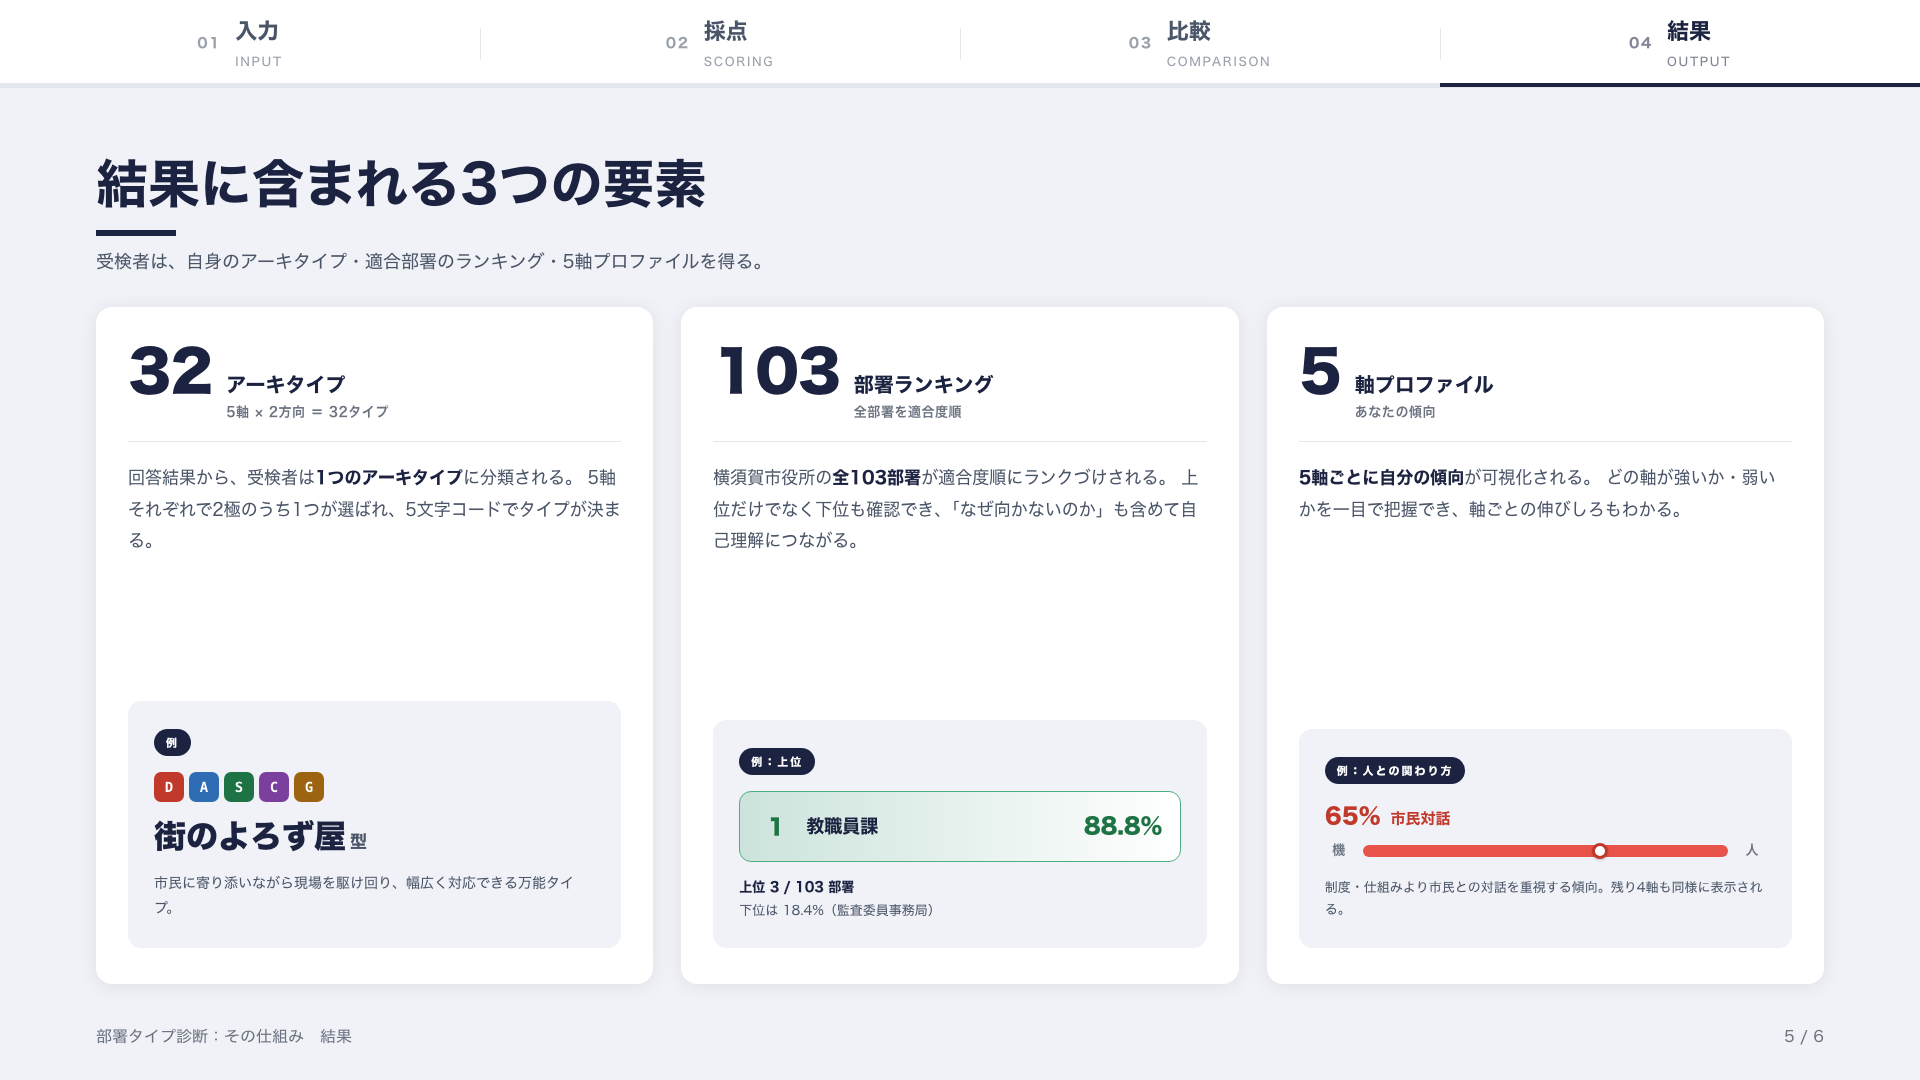
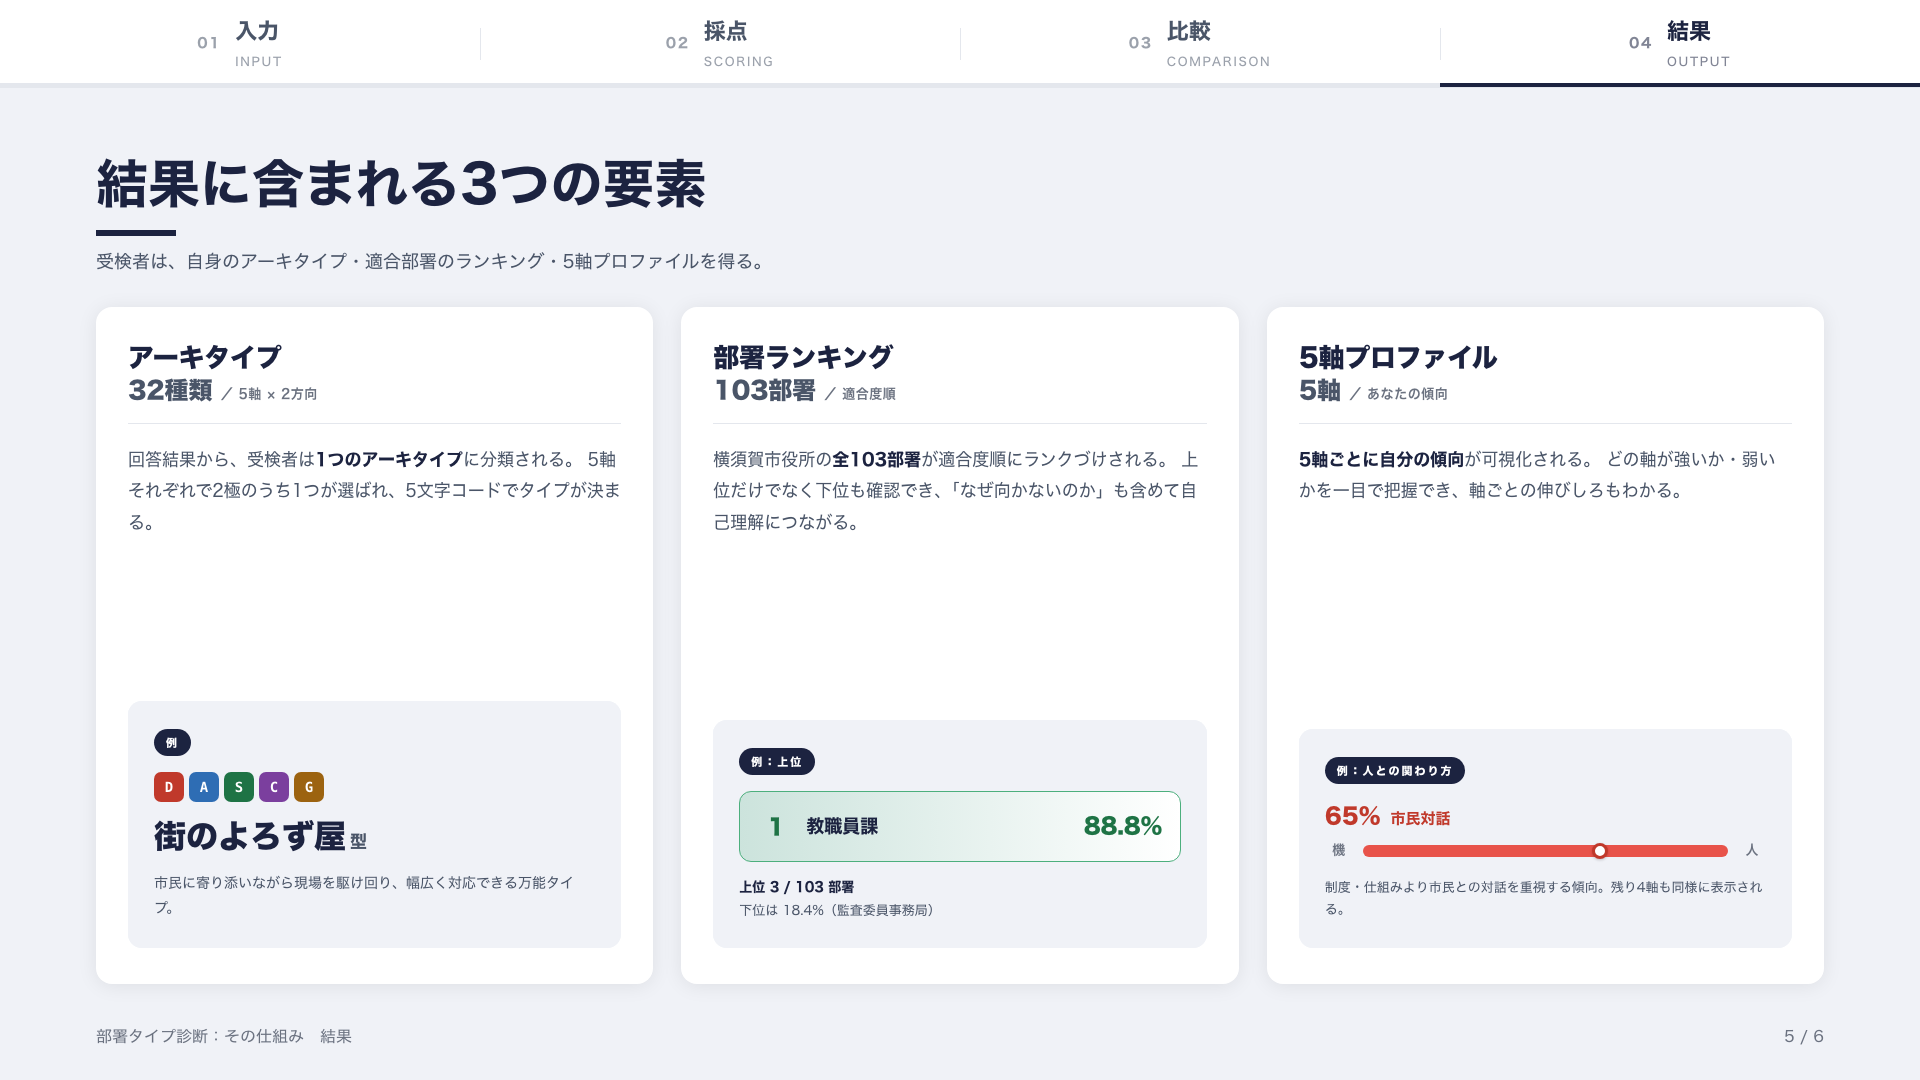
fix(presentation): slide 5 — flip card-head hierarchy, align across cards
The previous head put the count (32 / 103 / 5) as the dominant element
beside the label. That demoted the actual concept (アーキタイプ /
部署ランキング / 5軸プロファイル) to a sub-line, and the differing
numeric widths broke vertical alignment between cards.

Restructure as label-primary stacked layout: the concept name reads
first as a large indigo heading, with the count and qualifier on a
secondary line below. Headings now baseline-align across all three
cards regardless of the count's digit width.

Changed region(s): [[0.375, 0.3056, 0.625, 0.5194], [0.0625, 0.3056, 0.3438, 0.4889], [0.6562, 0.3056, 0.9375, 0.4889]]

diff --git a/presentations/how-it-works/index.html b/presentations/how-it-works/index.html
@@ -795,21 +795,26 @@
     gap: 20px;
   }
   .s5-card-head {
-    display: flex; align-items: baseline; gap: 14px;
+    display: flex; flex-direction: column;
+    gap: 6px;
     border-bottom: 1px solid var(--border);
     padding-bottom: 18px;
   }
-  .s5-card-num {
-    font-size: 56px; font-weight: 800;
+  .s5-card-label {
+    font-size: 26px; font-weight: 800;
     color: var(--hall-indigo);
-    letter-spacing: -0.02em;
+    line-height: 1.1;
+    letter-spacing: -0.01em;
+  }
+  .s5-card-meta {
+    display: flex; align-items: baseline; gap: 8px;
+  }
+  .s5-card-num {
+    font-size: 24px; font-weight: 800;
+    color: var(--text-sec);
+    letter-spacing: -0.01em;
     line-height: 1;
     font-variant-numeric: tabular-nums;
-  }
-  .s5-card-title { display: flex; flex-direction: column; gap: 4px; }
-  .s5-card-label {
-    font-size: 20px; font-weight: 700;
-    color: var(--text);
   }
   .s5-card-note {
     font-size: 13px; font-weight: 600;
@@ -1394,10 +1399,10 @@
 
         <div class="s5-card">
           <div class="s5-card-head">
-            <div class="s5-card-num">32</div>
-            <div class="s5-card-title">
-              <div class="s5-card-label">アーキタイプ</div>
-              <div class="s5-card-note">5軸 × 2方向 ＝ 32タイプ</div>
+            <div class="s5-card-label">アーキタイプ</div>
+            <div class="s5-card-meta">
+              <span class="s5-card-num">32種類</span>
+              <span class="s5-card-note">／ 5軸 × 2方向</span>
             </div>
           </div>
           <p class="s5-card-para">
@@ -1416,10 +1421,10 @@
 
         <div class="s5-card">
           <div class="s5-card-head">
-            <div class="s5-card-num">103</div>
-            <div class="s5-card-title">
-              <div class="s5-card-label">部署ランキング</div>
-              <div class="s5-card-note">全部署を適合度順</div>
+            <div class="s5-card-label">部署ランキング</div>
+            <div class="s5-card-meta">
+              <span class="s5-card-num">103部署</span>
+              <span class="s5-card-note">／ 適合度順</span>
             </div>
           </div>
           <p class="s5-card-para">
@@ -1440,10 +1445,10 @@
 
         <div class="s5-card">
           <div class="s5-card-head">
-            <div class="s5-card-num">5</div>
-            <div class="s5-card-title">
-              <div class="s5-card-label">軸プロファイル</div>
-              <div class="s5-card-note">あなたの傾向</div>
+            <div class="s5-card-label">5軸プロファイル</div>
+            <div class="s5-card-meta">
+              <span class="s5-card-num">5軸</span>
+              <span class="s5-card-note">／ あなたの傾向</span>
             </div>
           </div>
           <p class="s5-card-para">
